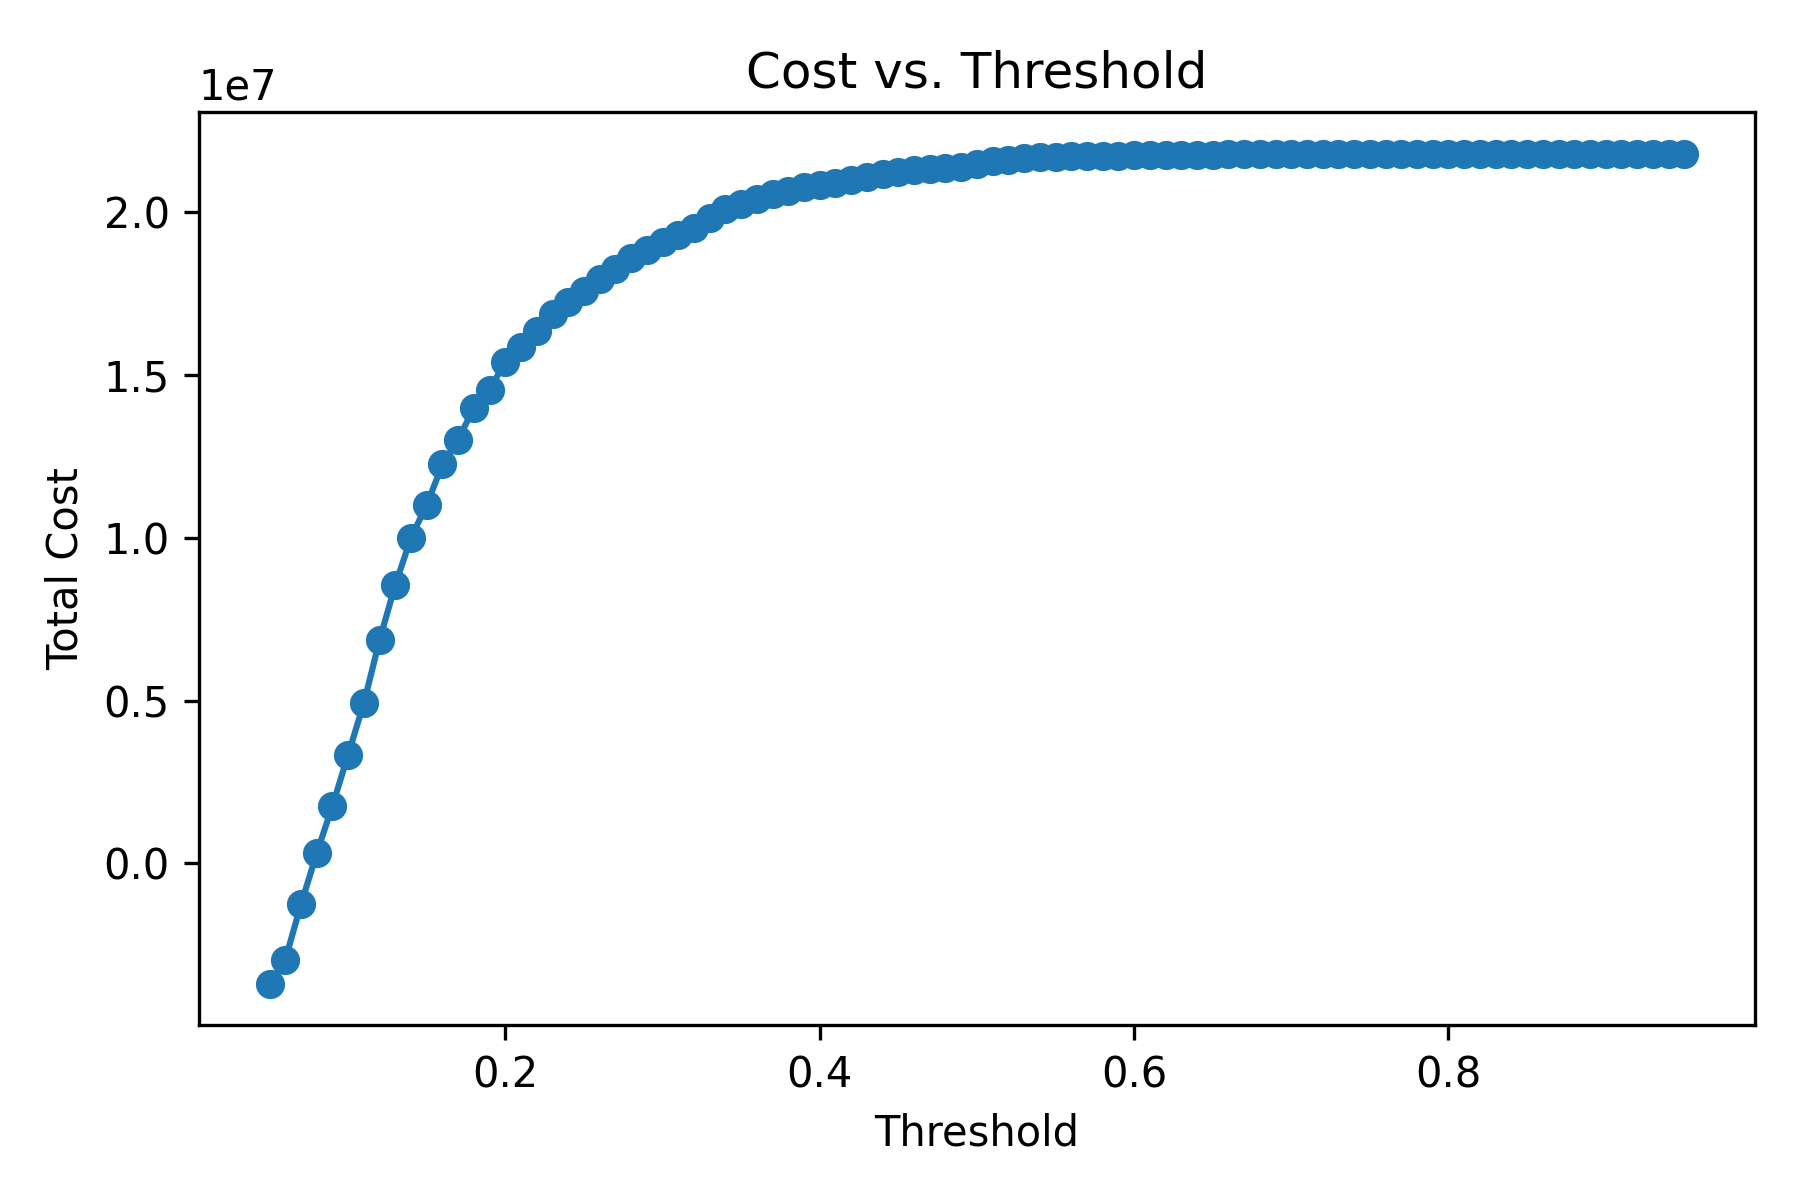
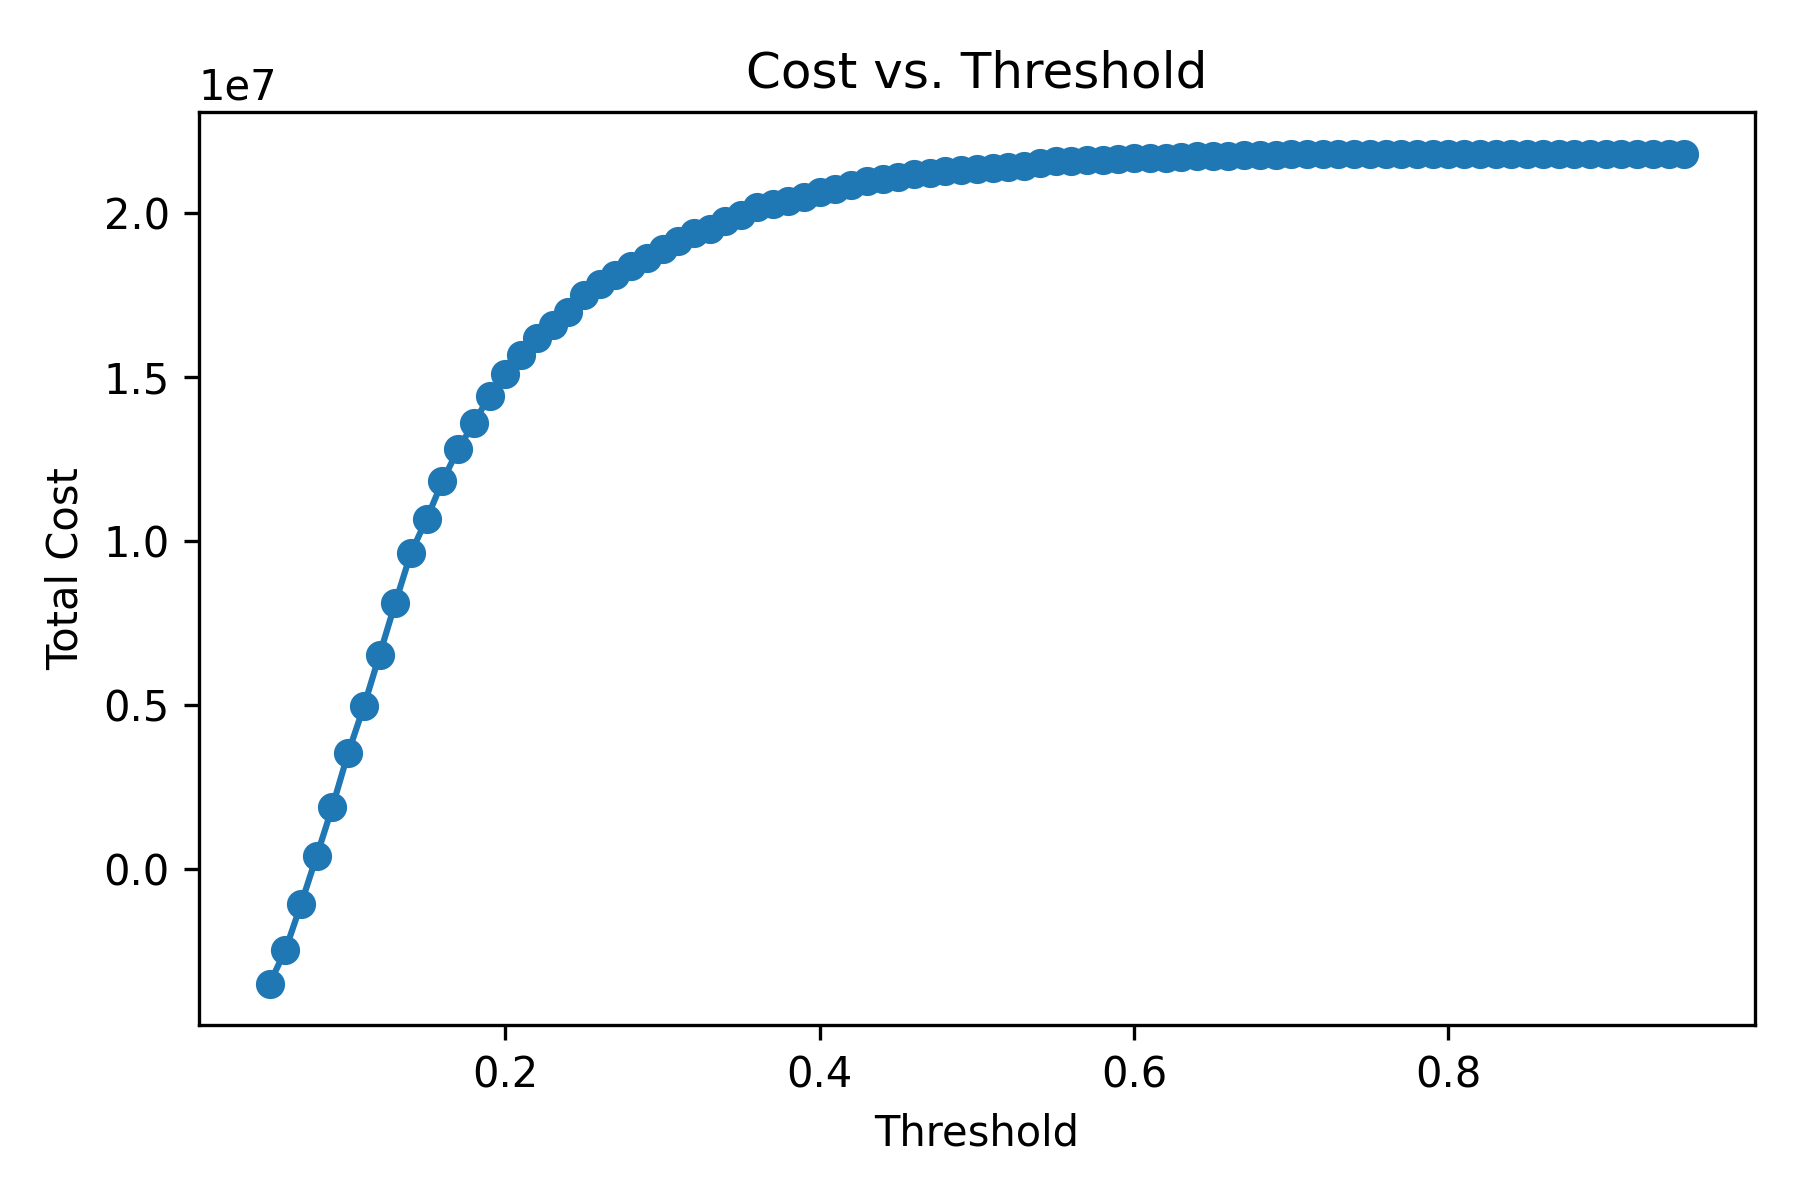
chore: regenerate all outputs and figures for retrained LightGBM model
Re-ran evaluation, external validation, workflow simulation, and all
figure generation scripts after retraining with scikit-learn 1.8.0.

Updated metrics (LightGBM on test split):
- ROC-AUC: 0.6893
- PR-AUC: 0.2435
- Top-10% capture: 26.1%
- Top-20% capture: 41.2%
- Brier score: 0.0908

Also fixed generate_figures_and_tables.py SHAP block to convert sparse
CSR matrix to dense array before calling shap.summary_plot (compatible
with LightGBM + sklearn 1.8.0 preprocessor output).

diff --git a/outputs/generate_figures_and_tables.py b/outputs/generate_figures_and_tables.py
@@ -78,18 +78,29 @@ brier = brier_score_loss(scored["target"], scored["risk_score"])
 with open("outputs/tables/brier_score.txt", "w") as f:
     f.write(f"Brier score: {brier:.4f}\n")
 
-# SHAP feature importance (XGBoost)
+# SHAP feature importance
 model = joblib.load("models/best_model.joblib")
 preprocessor = joblib.load("models/preprocessor.joblib")
 
-# Use a sample for SHAP to save time
+# Use a sample for SHAP to save time; convert sparse to dense for compatibility
+import numpy as np
+
 X = scored.drop(columns=["target", "risk_score"])
 X_proc = preprocessor.transform(X)
-explainer = shap.Explainer(model)
-shap_values = explainer(X_proc[:200])
-plt.figure(figsize=(8, 6))
-shap.summary_plot(shap_values, X_proc[:200], show=False)
-plt.tight_layout()
-plt.savefig("outputs/figures/shap_summary.png", dpi=300)
+if hasattr(X_proc, "toarray"):
+    X_proc = X_proc.toarray()
+feature_names = preprocessor.get_feature_names_out()
+X_proc_sample = X_proc[:200]
+
+try:
+    explainer = shap.Explainer(model)
+    shap_values = explainer(X_proc_sample)
+    plt.figure(figsize=(8, 6))
+    shap.summary_plot(shap_values, X_proc_sample, feature_names=feature_names, show=False)
+    plt.tight_layout()
+    plt.savefig("outputs/figures/shap_summary.png", dpi=300)
+    plt.close()
+except Exception as e:
+    print(f"SHAP summary skipped: {e}")
 
 print("All figures and tables generated in outputs/figures and outputs/tables.")

diff --git a/README.md b/README.md
@@ -106,8 +106,9 @@ This makes the demo easier to understand for hospital partners, startup conversa
 
 - ROC-AUC: 0.689 (LightGBM, retrained on scikit-learn 1.8.0)
 - PR-AUC: 0.244
-- Top 20% capture: ~41%
-- Brier score: 0.09
+- Top 20% capture: 41.2%
+- Top 10% capture: 26.1%
+- Brier score: 0.091
 
 These results indicate moderate ranking performance with usable probability calibration for prioritization-oriented workflows. Model artifacts are saved as `models/best_model.joblib` and `models/preprocessor.joblib` and are compatible with scikit-learn 1.8.0 and Python 3.10+.
 
